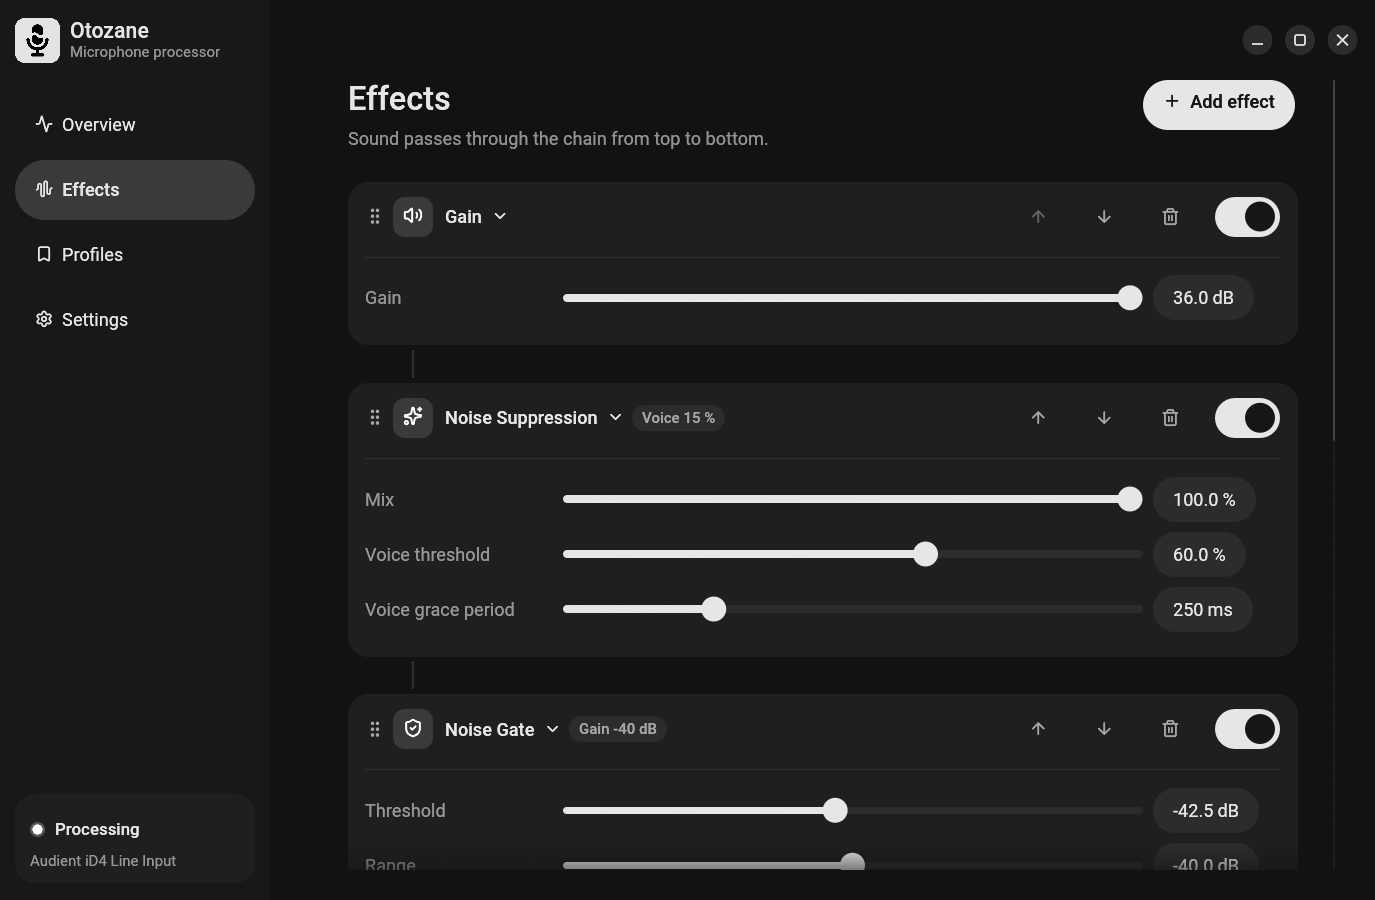
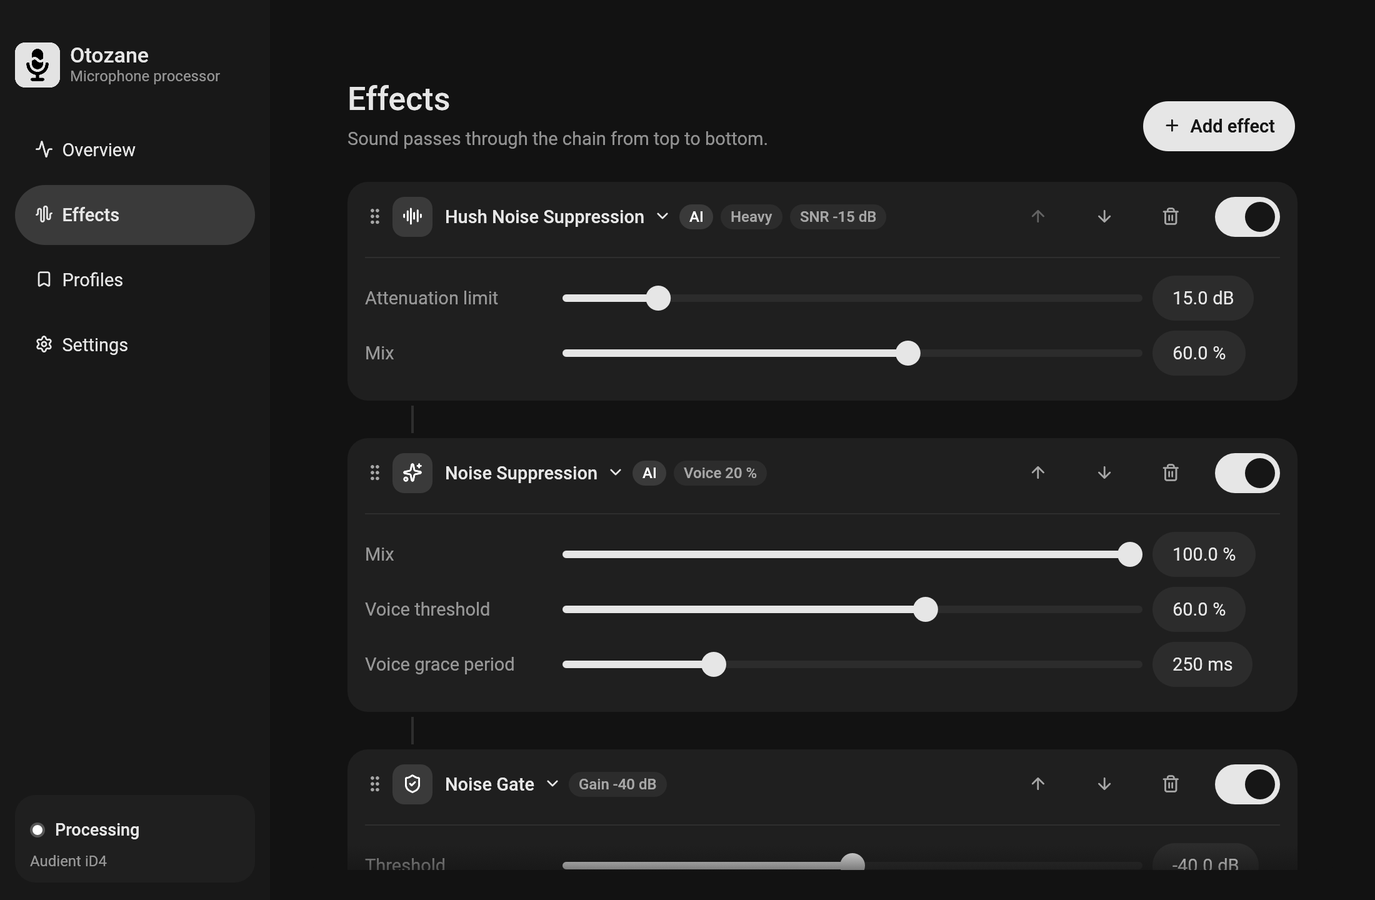
feat(ui): AI and Heavy badges for neural effects
Closes #17

diff --git a/crates/otozane-ui/src/effects.rs b/crates/otozane-ui/src/effects.rs
@@ -6,7 +6,7 @@ use crate::theme;
 use crate::widgets::{self, icon, icon_text};
 use egui::{Margin, RichText, Stroke, Ui};
 use otozane_core::config::{EffectConfig, PluginRef, next_id};
-use otozane_core::effects::EffectKind;
+use otozane_core::effects::{EffectKind, hush};
 use otozane_core::param::{ParamKind, ParamSpec};
 use otozane_core::protocol::{EffectInfo, Request};
 
@@ -32,6 +32,24 @@ pub fn kind_icon(kind: EffectKind) -> &'static str {
 }
 
 const LABEL_W: f32 = 150.0;
+
+const AI_TIP: &str = "Uses a neural network to process the sound.";
+
+fn heavy_tip() -> String {
+    let ms = hush::LATENCY as f32 * 1000.0 / otozane_core::SAMPLE_RATE as f32;
+    format!("Costs noticeably more CPU and adds about {ms:.0} ms of latency.")
+}
+
+/// Draws the AI and Heavy badges the effect kind has, with hover text.
+fn kind_badges(ui: &mut Ui, kind: EffectKind) {
+    let p = theme::current(ui.ctx());
+    if kind.is_ai() {
+        widgets::badge(ui, "AI", p.accent, p.accent_soft).on_hover_text(AI_TIP);
+    }
+    if kind.is_heavy() {
+        widgets::badge(ui, "Heavy", p.text_weak, p.raised).on_hover_text(heavy_tip());
+    }
+}
 
 /// One parameter line: fixed-width label, then the control filling the rest,
 /// so sliders line up across all effect cards.
@@ -71,7 +89,21 @@ pub fn page(app: &mut App, ui: &mut Ui) {
             egui::containers::menu::MenuButton::from_button(add).ui(ui, |ui| {
                 ui.set_min_width(200.0);
                 for &kind in EffectKind::ALL {
-                    if ui.button(icon_text(kind_icon(kind), kind.name())).clicked() {
+                    let mut button = egui::Button::new(icon_text(kind_icon(kind), kind.name()));
+                    if kind.is_ai() {
+                        let tag = if kind.is_heavy() { "AI · Heavy" } else { "AI" };
+                        button = button.right_text(RichText::new(tag).weak());
+                    }
+                    let mut resp = ui.add(button);
+                    if kind.is_ai() {
+                        let tip = if kind.is_heavy() {
+                            format!("{AI_TIP}\n{}", heavy_tip())
+                        } else {
+                            AI_TIP.to_string()
+                        };
+                        resp = resp.on_hover_text(tip);
+                    }
+                    if resp.clicked() {
                         app_action(app, Action::Add(kind));
                     }
                 }
@@ -198,6 +230,7 @@ pub fn page(app: &mut App, ui: &mut Ui) {
                                     app.collapsed.remove(&id);
                                 }
                             }
+                            kind_badges(ui, kind);
                             let badge = if !on {
                                 Some("Bypassed".to_string())
                             } else if let (Some((label, unit)), Some(v)) =

diff --git a/crates/otozane-core/src/effects/mod.rs b/crates/otozane-core/src/effects/mod.rs
@@ -75,6 +75,16 @@ impl EffectKind {
         }
     }
 
+    /// Whether the effect runs a neural network.
+    pub fn is_ai(self) -> bool {
+        matches!(self, EffectKind::Rnnoise | EffectKind::Hush)
+    }
+
+    /// Whether the effect costs noticeably more CPU or latency than a regular one.
+    pub fn is_heavy(self) -> bool {
+        self == EffectKind::Hush
+    }
+
     pub fn params(self) -> &'static [ParamSpec] {
         match self {
             EffectKind::Gain => gain::PARAMS,
